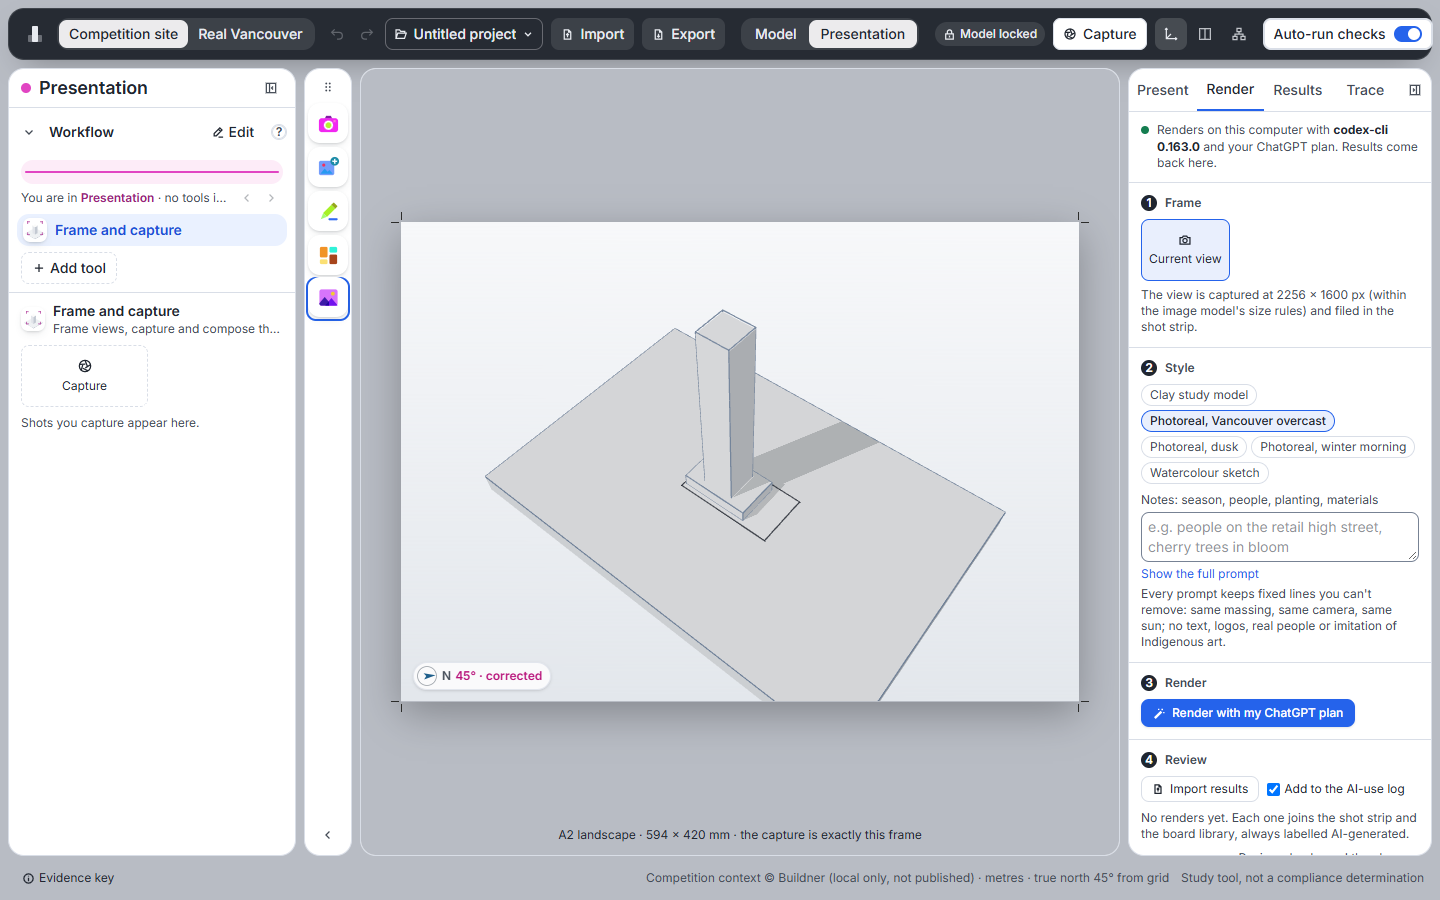
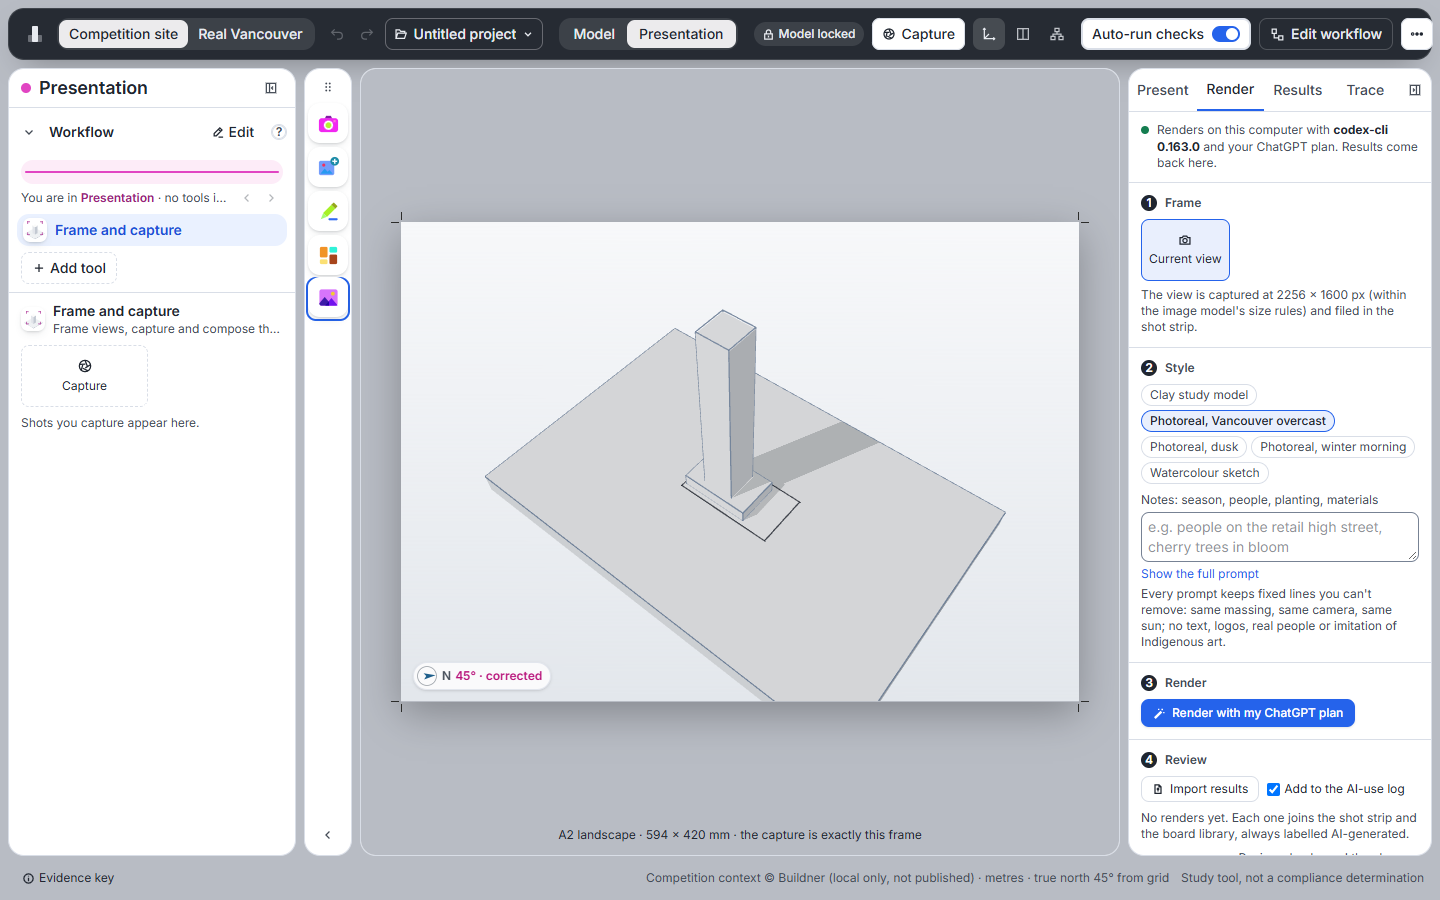
Top bar: the Import and Export buttons go; the project menu has Import… and Export… (Ruijie, 17 Nov)
"Their functions are already incorporated into the Untitled project drop-down menu." Two items with their icons open
the transfer centre on its import or export side, focus returning to the menu's button; a dropped file still imports.
The e2e go through the menu (helpers openTransfer); the guide and the hints say so.

Changed region(s): [[0.375, 0.0, 1.0, 0.0622]]

diff --git a/src/components/ProjectMenu.tsx b/src/components/ProjectMenu.tsx
@@ -1,6 +1,7 @@
 // Project menu in the top bar: undo / redo, New, Open, Save as, and the autosave status. Projects live in this browser
-// (IndexedDB); files come and go through the transfer centre (the bar's Import and Export, Result B, 9 Nov).
-import { ChevronDown, FilePlus, FolderOpen, HardDrive, Redo2, Save, Trash, Undo2 } from './icons'
+// (IndexedDB); files come and go through the transfer centre, opened by Import… and Export… here (Result B, 9 Nov; the
+// bar's own two buttons went on 17 Nov, Ruijie: "their functions are already incorporated into the project menu").
+import { ChevronDown, FileDown, FilePlus, FileUp, FolderOpen, HardDrive, Redo2, Save, Trash, Undo2 } from './icons'
 import { useEffect, useRef, useState, type ReactNode } from 'react'
 import { useTransfer } from '../lib/porting/transfer'
 import { redo, startHistory, undo, useHistory } from '../lib/project/history'
@@ -94,7 +95,7 @@ export default function ProjectMenu() {
             <Item icon={<FolderOpen size={14} />} onClick={() => (panel === 'open' ? setPanel('none') : openMenu('open'))} disabled={present} hint={locked} expanded={panel === 'open'}>Open…</Item>
             {panel === 'open' && (
               <div className="mx-1 mb-1 max-h-56 overflow-y-auto rounded-md border border-line">
-                {meta.saved.length === 0 && <p className="px-2 py-2 text-meta text-muted">No saved projects in this browser yet. Use Save as…, or Import › Open a saved project.</p>}
+                {meta.saved.length === 0 && <p className="px-2 py-2 text-meta text-muted">No saved projects in this browser yet. Use Save as…, or Import… › Open a saved project.</p>}
                 {meta.saved.map((p) => (
                   <div key={p.key} className="flex items-center gap-1 border-b border-line/60 px-2 py-1 last:border-0">
                     <button onClick={() => { void openStored(p.key); setPanel('none') }} className="min-w-0 flex-1 text-left hover:text-accent">
@@ -117,8 +118,9 @@ export default function ProjectMenu() {
                 <button type="submit" className="rounded bg-accent px-2.5 py-1 text-xs font-medium text-white hover:opacity-90">Save</button>
               </form>
             )}
-            <Item icon={<FolderOpen size={14} />} onClick={() => { setOpen(false); useTransfer.getState().open('export', box.current?.querySelector('button')) }} hint="Backups, geometry, workflow packages, models and tools: the Import and Export buttons beside this menu">Import or export a file…</Item>
-            <p className="px-2 pb-1 pt-1.5 text-meta leading-snug text-muted">Projects stay in this browser. Export › Back up this project keeps a copy or shares it; the same design always exports the same file. Ctrl+Z / Ctrl+Shift+Z undo and redo design changes.</p>
+            <Item icon={<FileUp size={14} />} testId="transfer-import" onClick={() => { setOpen(false); useTransfer.getState().open('import', box.current?.querySelector('button')) }} hint="A model, a saved project, a workflow package, a site boundary or a custom tool; a file dropped anywhere does the same">Import…</Item>
+            <Item icon={<FileDown size={14} />} testId="transfer-export" onClick={() => { setOpen(false); useTransfer.getState().open('export', box.current?.querySelector('button')) }} hint="A backup of this project, the geometry, a workflow package, results for Sun & Wind Studio, PROV">Export…</Item>
+            <p className="px-2 pb-1 pt-1.5 text-meta leading-snug text-muted">Projects stay in this browser. Export… › Back up this project keeps a copy or shares it; the same design always exports the same file. Ctrl+Z / Ctrl+Shift+Z undo and redo design changes.</p>
           </div>
         )}
       </div>
@@ -126,9 +128,9 @@ export default function ProjectMenu() {
   )
 }
 
-function Item({ icon, children, onClick, disabled, hint, expanded }: { icon: ReactNode; children: ReactNode; onClick: () => void; disabled?: boolean; hint?: string; expanded?: boolean }) {
+function Item({ icon, children, onClick, disabled, hint, expanded, testId }: { icon: ReactNode; children: ReactNode; onClick: () => void; disabled?: boolean; hint?: string; expanded?: boolean; testId?: string }) {
   return (
-    <button role="menuitem" onClick={onClick} disabled={disabled} title={hint} aria-expanded={expanded}
+    <button role="menuitem" onClick={onClick} disabled={disabled} title={hint} aria-expanded={expanded} data-testid={testId}
       className="flex w-full items-center gap-2 rounded-md px-2 py-1.5 text-left text-xs hover:bg-black/5 disabled:cursor-not-allowed disabled:opacity-40">
       <span className="text-muted">{icon}</span>{children}
     </button>

diff --git a/e2e/transfer-centre.e2e.ts b/e2e/transfer-centre.e2e.ts
@@ -3,7 +3,7 @@
 // previews its counts and writes a .glb only on "Export file"; the model stays as it was; it works from the builder too.
 import { expect, test } from '@playwright/test'
 import { readFileSync } from 'node:fs'
-import { placeStartingTower } from './helpers'
+import { openTransfer, placeStartingTower } from './helpers'
 
 test('Import and Export open the centre; Cancel is clean; a glTF export is a real file; focus returns', async ({ page: p }) => {
   test.setTimeout(240_000)
@@ -18,7 +18,7 @@ test('Import and Export open the centre; Cancel is clean; a glTF export is a rea
   p.on('download', () => downloads++)
 
   // 1 · opening downloads nothing; the purposes are listed, the unavailable one disabled, no action until a purpose is chosen
-  await p.getByTestId('transfer-import').click()
+  await openTransfer(p, 'import')
   await expect(dialog).toHaveAttribute('data-tab', 'import')
   await expect(dialog.getByTestId('purpose-site')).toBeDisabled() // Real Vancouver only
   await expect(dialog.getByTestId('transfer-action')).toHaveCount(0)
@@ -31,11 +31,11 @@ test('Import and Export open the centre; Cancel is clean; a glTF export is a rea
   await dialog.getByTestId('transfer-cancel').waitFor({ state: 'detached' }).catch(() => {})
   await dialog.getByTestId('transfer-close').click()
   await expect(dialog).toHaveCount(0)
-  await expect(p.getByTestId('transfer-import')).toBeFocused()
+  await expect(p.getByRole('button', { name: /^Project file/ })).toBeFocused() // the menu's button opened it
   expect(downloads).toBe(0)
 
   // 9 · geometry: the preview says what the file holds, Export file writes it
-  await p.getByTestId('transfer-export').click()
+  await openTransfer(p, 'export')
   await dialog.getByTestId('purpose-geometry').click()
   await expect(dialog.getByTestId('transfer-preview')).toContainText(/\d+ solids on \d+ layers/)
   await dialog.locator('input[data-kind="glb"]').check()
@@ -51,16 +51,16 @@ test('Import and Export open the centre; Cancel is clean; a glTF export is a rea
   // 14 · Escape closes and returns focus; the Export route also works while the workflow builder is open (check 2)
   await p.getByTestId('edit-workflow-button').click()
   await p.getByTestId('workflow-builder').waitFor()
-  await p.getByTestId('transfer-export').click()
+  await openTransfer(p, 'export')
   await expect(dialog).toBeVisible()
   await p.keyboard.press('Escape')
   await expect(dialog).toHaveCount(0)
   await expect(p.getByTestId('workflow-builder')).toBeVisible()
-  await expect(p.getByTestId('transfer-export')).toBeFocused()
+  await expect(p.getByRole('button', { name: /^Project file/ })).toBeFocused()
   await p.getByTestId('builder-continue').click()
 
   // drag-and-drop: a project backup dropped anywhere opens the centre on Import with the purpose read from the file
-  await p.getByTestId('transfer-export').click()
+  await openTransfer(p, 'export')
   await dialog.getByTestId('purpose-backup').click()
   const [pkg] = await Promise.all([p.waitForEvent('download', { timeout: 60_000 }), dialog.getByTestId('transfer-action').click()])
   const text = readFileSync((await pkg.path())!, 'utf8')

diff --git a/src/components/TopBar.tsx b/src/components/TopBar.tsx
@@ -1,7 +1,8 @@
 // The project bar (overnight brief, 8 Nov: "Project/context, file actions, Undo/Redo and a compact Assistant entry.
 // Consolidate secondary controls in a discoverable menu. Keep the project identity visible; do not build another phase
 // selector here"). 52 px tall, every control 14/20 px. Left: the toolkit's name, the project (Competition site / Real
-// Vancouver), the project file menu with Undo / Redo, Export model. Right: the view (model, model + data graph, data
+// Vancouver), the project file menu with Undo / Redo (its Import… and Export… open the transfer centre; the bar's own
+// Import and Export buttons went on 17 Nov, Ruijie: "their functions are already incorporated into the project menu"). Right: the view (model, model + data graph, data
 // graph), Auto-run checks (what the old "Analysis On/Off" really controls: checks recompute with the model, or pause),
 // Edit workflow (the workflow editor, 9 Nov; it was "Assistant"), and More (the check library, role, units, motion, Customize, Options, guide, tour, build status,
 // sources). Present adds Model locked and Capture. In the centre, the Model | Presentation switch (Ruijie, 17 Nov): one
@@ -17,7 +18,6 @@ import { openBuilder, useProjectWorkflow } from '../lib/workflow/projectWorkflow
 import ProjectMenu from './ProjectMenu'
 import TransferDialog from './porting/TransferDialog'
 import { useTransfer } from '../lib/porting/transfer'
-import { FileDown, FileUp } from './icons'
 import NodeLibrary from './NodeLibrary'
 import { UnitSelect } from './Units'
 import { RoleSelect } from './RolePicker'
@@ -147,12 +147,7 @@ export default function TopBar() {
         ))}
       </div>
       <ProjectMenu />
-      {/* One Import and one Export (Result B, 9 Nov): both open the transfer centre on their tab; nothing is downloaded by the click. */}
-      {(['import', 'export'] as const).map((t) => (
-        <button key={t} type="button" onClick={(e) => useTransfer.getState().open(t, e.currentTarget)} data-testid={`transfer-${t}`} title={t === 'import' ? 'Bring in a model, a project, a workflow package, a site boundary or a custom tool' : 'Take out geometry, a project backup, a workflow package or results'}
-          className={`flex h-8 items-center gap-1.5 whitespace-nowrap rounded-lg px-2.5 text-control font-medium outline-none focus-visible:ring-2 focus-visible:ring-accent ${present ? 'bg-white/10 hover:bg-white/20' : 'bg-black/5 hover:bg-black/10'}`}>
-          {t === 'import' ? <FileUp size={13} aria-hidden /> : <FileDown size={13} aria-hidden />}{t === 'import' ? 'Import' : 'Export'}</button>
-      ))}
+      {/* The transfer centre (Result B, 9 Nov): opened from the project menu's Import… and Export…, or by a file dropped anywhere. */}
       <TransferDialog />
       <span className="mx-auto" />
       <ModeSwitch />

diff --git a/e2e/phase-panel.e2e.ts b/e2e/phase-panel.e2e.ts
@@ -7,7 +7,7 @@
 // Form and brings it back by Merge and by Replace, after a preview.
 import { expect, test, type Page } from '@playwright/test'
 import { readFileSync } from 'node:fs'
-import { placeStartingTower } from './helpers'
+import { openTransfer, placeStartingTower } from './helpers'
 
 const rail = (p: Page) => p.getByRole('navigation', { name: 'Design process' })
 const panel = (p: Page) => p.getByTestId('phase-panel')
@@ -17,8 +17,8 @@ const towerCount = async (p: Page) => {
   await p.getByRole('tab', { name: 'Your site' }).click().catch(() => {})
   return p.getByText(/Towers on this site/).first()
 }
-// Import and Export are the project bar's transfer centre (9 Nov): purpose first, the file, then the named action.
-const openImport = async (p: Page) => { await p.getByTestId('transfer-import').click(); await p.getByTestId('purpose-package').click() }
+// Import… and Export… in the project menu open the transfer centre (9 Nov; the bar's buttons went 17 Nov): purpose first, the file, then the named action.
+const openImport = async (p: Page) => { await openTransfer(p, 'import'); await p.getByTestId('purpose-package').click() }
 const importFile = async (p: Page, file: string) => { await openImport(p); await p.getByTestId('transfer-file').setInputFiles(file); await p.getByTestId('transfer-action').click() }
 const FORM = ['design.massing', 'built.sun', 'built.wind-screen']
 const LOOP = 'built.wind-screen>design.massing'
@@ -162,7 +162,7 @@ test('Form: Massing → Sun & shadow → Wind screen ↻ Massing; edit, rearrang
   await expect(panel(p).locator(`[data-return="${LOOP}"]`)).toHaveCount(1)
 
   // 6 · export the Form package
-  await p.getByTestId('transfer-export').click()
+  await openTransfer(p, 'export')
   await p.getByTestId('purpose-workflow').click()
   const [dl] = await Promise.all([p.waitForEvent('download'), p.getByTestId('transfer-action').click()])
   const pkg = JSON.parse(readFileSync((await dl.path())!, 'utf8'))

diff --git a/e2e/sun-wind-link.e2e.ts b/e2e/sun-wind-link.e2e.ts
@@ -3,6 +3,7 @@
 // branch ruijie/tower-toolkit-link) imports it. Her branch is served here from the sibling checkout
 // ../sun-wind-studio; the test is skipped when that checkout is missing. Her page loads three.js from cdnjs (network).
 // Run: node node_modules/playwright/cli.js test e2e/sun-wind-link.e2e.ts
+import { openTransfer } from './helpers'
 import { expect, test, type Page } from '@playwright/test'
 import { createServer, type Server } from 'node:http'
 import { existsSync, readFileSync, statSync } from 'node:fs'
@@ -51,7 +52,7 @@ test('Send to Sun & Wind Studio: the selected tower arrives in place, with its p
   expect(t.project).toBe('vtc')
   expect(t.n).toBe(2)
 
-  await page.getByTestId('transfer-export').click(); await page.getByTestId('purpose-results').click()
+  await openTransfer(page, 'export'); await page.getByTestId('purpose-results').click()
   const [sw] = await Promise.all([context.waitForEvent('page'), page.getByTestId('sunwind-send').click()])
   await sw.waitForLoadState()
   expect(sw.url()).toContain('from=toolkit')
@@ -79,7 +80,7 @@ test('Send to Sun & Wind Studio: the selected tower arrives in place, with its p
   // A design change, sent again to the same window (no reload).
   await store(page, `const t = s.towers.vtc.find((k) => k.id === s.selectedTower) ?? s.towers.vtc[0]; s.updateTower(t.id, { height: 250 })`)
   await page.bringToFront()
-  if (!(await page.getByTestId('sunwind-send').isVisible())) await page.getByTestId('transfer-export').click(); await page.getByTestId('purpose-results').click()
+  if (!(await page.getByTestId('sunwind-send').isVisible())) { await openTransfer(page, 'export'); await page.getByTestId('purpose-results').click() }
   await page.getByTestId('sunwind-send').click()
   // Whole storeys: 250 m comes over as 249 m (the first send was 282.6 m).
   const top = () => sw.evaluate(() => (window as unknown as { LAB: { upload: { top: number } | null } }).LAB.upload?.top ?? 0)

diff --git a/e2e/journeys.e2e.ts b/e2e/journeys.e2e.ts
@@ -8,7 +8,7 @@
 // F05 a use-only band edit keeps GFA and FSR, moves the value, and Undo restores it.
 import { expect, test, type Page } from '@playwright/test'
 import { readFileSync, writeFileSync } from 'node:fs'
-import { placeStartingTower, openDesignTool } from './helpers'
+import { openTransfer, placeStartingTower, openDesignTool } from './helpers'
 
 const rail = (p: Page) => p.getByRole('navigation', { name: 'Design process' })
 const panel = (p: Page) => p.getByTestId('phase-panel')
@@ -153,7 +153,7 @@ test('F01–F05: Form and Program journeys, freshness, persistence and a phase-p
   const programRows = await rows(p)
   const tier = (await live(p)).fsrTier
   await rail(p).locator('[data-phase="form"]').click()
-  await p.getByTestId('transfer-export').click()
+  await openTransfer(p, 'export')
   await p.getByTestId('purpose-workflow').click()
   const [dl] = await Promise.all([p.waitForEvent('download'), p.getByTestId('transfer-action').click()])
   await p.keyboard.press('Escape')
@@ -164,7 +164,7 @@ test('F01–F05: Form and Program journeys, freshness, persistence and a phase-p
   pkg.workflow.links.push({ edge: { a: 'built.sun', b: 'built.economics' }, other: 'built.economics', out: true })
   const file = test.info().outputPath('form-package-edited.json')
   writeFileSync(file, JSON.stringify(pkg))
-  await p.getByTestId('transfer-import').click()
+  await openTransfer(p, 'import')
   await p.getByTestId('purpose-package').click()
   await p.getByTestId('transfer-file').setInputFiles(file)
   await p.getByTestId('transfer-action').click()

diff --git a/src/pages/Guide.tsx b/src/pages/Guide.tsx
@@ -107,7 +107,7 @@ export default function Guide() {
           </Section>
 
           <Section id="files" title="Saving, import and export">
-            <p>Your design is saved in this browser as you work and comes back when you return. The <b>project menu</b> (top left in the guided app) has <b>New project</b>, <b>Open…</b>, <b>Save</b>, <b>Save as…</b>, <b>Export .json</b> and <b>Import .json…</b>. A project file holds the design, your decisions and the trace; send it to a teammate to share the whole state.</p>
+            <p>Your design is saved in this browser as you work and comes back when you return. The <b>project menu</b> (top left in the guided app) has <b>New project</b>, <b>Open…</b>, <b>Save as…</b>, <b>Import…</b> and <b>Export…</b> (the transfer centre: models, project backups, workflow packages, a site boundary, custom tools, results; a file dropped anywhere on the app imports too). A project file holds the design, your decisions and the trace; send it to a teammate to share the whole state.</p>
             <p>To bring in your own massing, use <b>Import</b> in the <b>Towers &amp; site</b> design tool: Rhino <code>.3dm</code>, OBJ, glTF / GLB and IFC. SketchUp and Revit files can't be read in a browser; the app tells you how to export them (OBJ from SketchUp, IFC from Revit). Imported masses are cut into storeys so the checks can read them.</p>
             <p>Browser storage belongs to one browser on one computer: export a project file to keep a copy or to move to another machine.</p>
           </Section>

diff --git a/e2e/rhino-import.e2e.ts b/e2e/rhino-import.e2e.ts
@@ -5,7 +5,7 @@ import { expect, test } from '@playwright/test'
 import { execFileSync } from 'node:child_process'
 import { existsSync } from 'node:fs'
 import { join } from 'node:path'
-import { openDesignTool, openResultDetails } from './helpers'
+import { openDesignTool, openResultDetails, openTransfer } from './helpers'
 
 const FIXTURE = join(process.cwd(), 'tools', 'import-fixtures', 'typical-two-towers-mm.3dm')
 
@@ -73,8 +73,8 @@ test('the uploaded lot line and context buildings are drawn in the 3D view', asy
   await page.waitForSelector('#root > *', { timeout: 60_000 })
   await page.getByRole('button', { name: 'Start designing' }).click({ timeout: 3000 }).catch(() => {})
   await page.getByRole('tab', { name: 'Competition site' }).or(page.getByRole('button', { name: 'Competition site' })).first().click()
-  // Through the transfer centre this time (Import › Bring in a 3D model; the same model dialog follows).
-  await page.getByTestId('transfer-import').click()
+  // Through the transfer centre this time (project menu › Import… › Bring in a 3D model; the same model dialog follows).
+  await openTransfer(page, 'import')
   await page.getByTestId('purpose-model').click()
   await page.getByTestId('transfer-file').setInputFiles(FIXTURE)
   await page.getByTestId('transfer-action').click()

diff --git a/e2e/workspace-gate.e2e.ts b/e2e/workspace-gate.e2e.ts
@@ -45,7 +45,7 @@ for (const vp of [{ width: 1440, height: 900 }, { width: 1280, height: 800 }]) {
           inter: document.fonts.check('14px "Inter Variable"') && [...document.fonts].some((f) => /Inter/.test(f.family) && f.status === 'loaded'),
           family: getComputedStyle(document.body).fontFamily.split(',')[0],
           phaseTab: cs('nav[aria-label="Design process"] [data-phase]'), overview: cs('[data-testid="edit-workflow-button"]'),
-          heading: cs('[data-testid="phase-panel"] h2'), importBtn: cs('[data-testid="transfer-import"]'), edit: cs('[data-testid="phase-edit"]'),
+          heading: cs('[data-testid="phase-panel"] h2'), importBtn: cs('[aria-label^="Project file"]'), edit: cs('[data-testid="phase-edit"]'),
           toolName: cs('[data-testid="phase-rows"] [data-node] > span:last-child'), view: cs('[role="radiogroup"][aria-label="View"] [role="radio"]'),
           resultsTab: cs('[data-panel="right"] [role="tab"]'), autoRun: cs('[data-testid="analysis-switch"]'),
         }

diff --git a/src/components/porting/TransferDialog.tsx b/src/components/porting/TransferDialog.tsx
@@ -190,7 +190,7 @@ function ExportPane({ c, purpose, initialPhase }: { c: Capability; purpose: Expo
     <div>{head}
       <dl className="mt-2 grid grid-cols-[auto_1fr] gap-x-3 gap-y-0.5" data-testid="transfer-preview">
         {row('Project', meta.name ?? 'Untitled project')}{row('Holds', `${towers.length} tower${towers.length === 1 ? '' : 's'}, every phase's settings, imported meshes, the decision trace (${trace.iterations.length} entries)`)}
-        {row('File', exportName())}{row('Reopens', 'Import › Open a saved project, with everything editable')}
+        {row('File', exportName())}{row('Reopens', 'Project menu › Import… › Open a saved project, with everything editable')}
       </dl>
       <Footer action="Save backup" status={status} onAction={async () => { saveFile(exportName(), await currentText()); setStatus('Saved.') }} /></div>)
   if (purpose === 'workflow') return (

diff --git a/e2e/helpers.ts b/e2e/helpers.ts
@@ -19,6 +19,12 @@ export async function placeStartingTower(p: Page, { stay = false } = {}) {
   if (!stay && step && step !== 'volume') await rail.locator(`[data-step="${step}"]`).click()
 }
 
+/** The transfer centre opens from the project menu (17 Nov: the bar's own Import and Export buttons went): Import… or Export…. */
+export async function openTransfer(p: Page, side: 'import' | 'export') {
+  await p.getByRole('button', { name: /^Project file/ }).click()
+  await p.getByTestId(`transfer-${side}`).click()
+}
+
 /**
  * Opens a design tool in the left panel: its icon is a tab under the phase's design node, and its controls show below
  * the row of icons. When the phase panel has a check open instead, its design node (the first row) is opened first.

diff --git a/src/components/workflow/PhasePanel.tsx b/src/components/workflow/PhasePanel.tsx
@@ -1,6 +1,6 @@
 // The left panel, one per phase (Ruijie, 8 Nov: "The left panel should show the selected phase's local tool workflow and,
 // below it, the active tool's parameters, controls and results"). Three parts:
-//   the phase header: its name and Hide (Import and Export are the project bar's, Result B, 9 Nov);
+//   the phase header: its name and Hide (Import… and Export… are the project menu's, Result B, 9 Nov);
 //   the phase workflow (9 Nov): the Workflow header opens the editor in the centre view (WorkflowOverview.tsx); under it a
 //     map of the whole workflow (every tool as a dot in working order, the current phase tinted, loops as arcs) and this
 //     phase's tools, which open on a click; Add tool (asks first);
